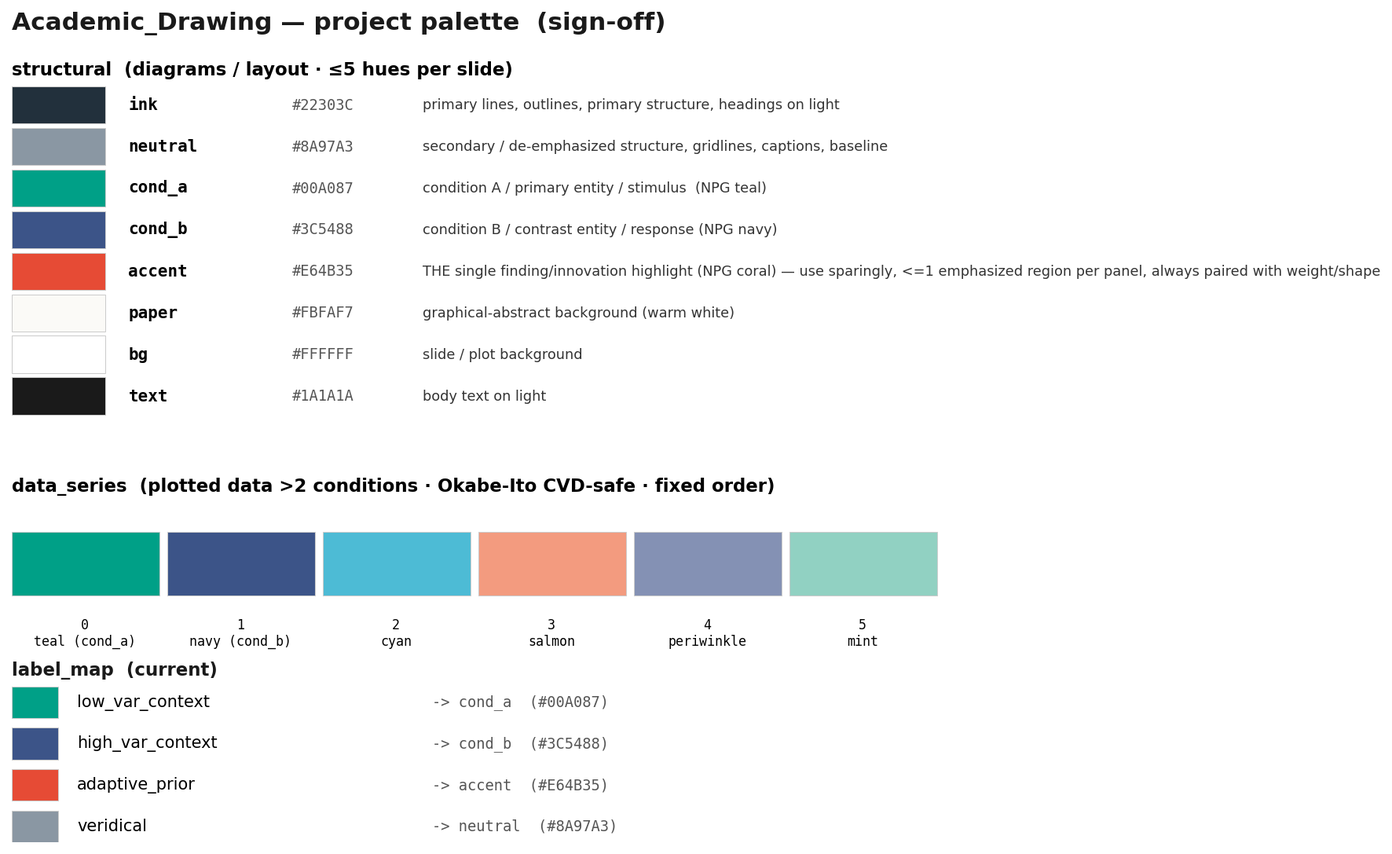
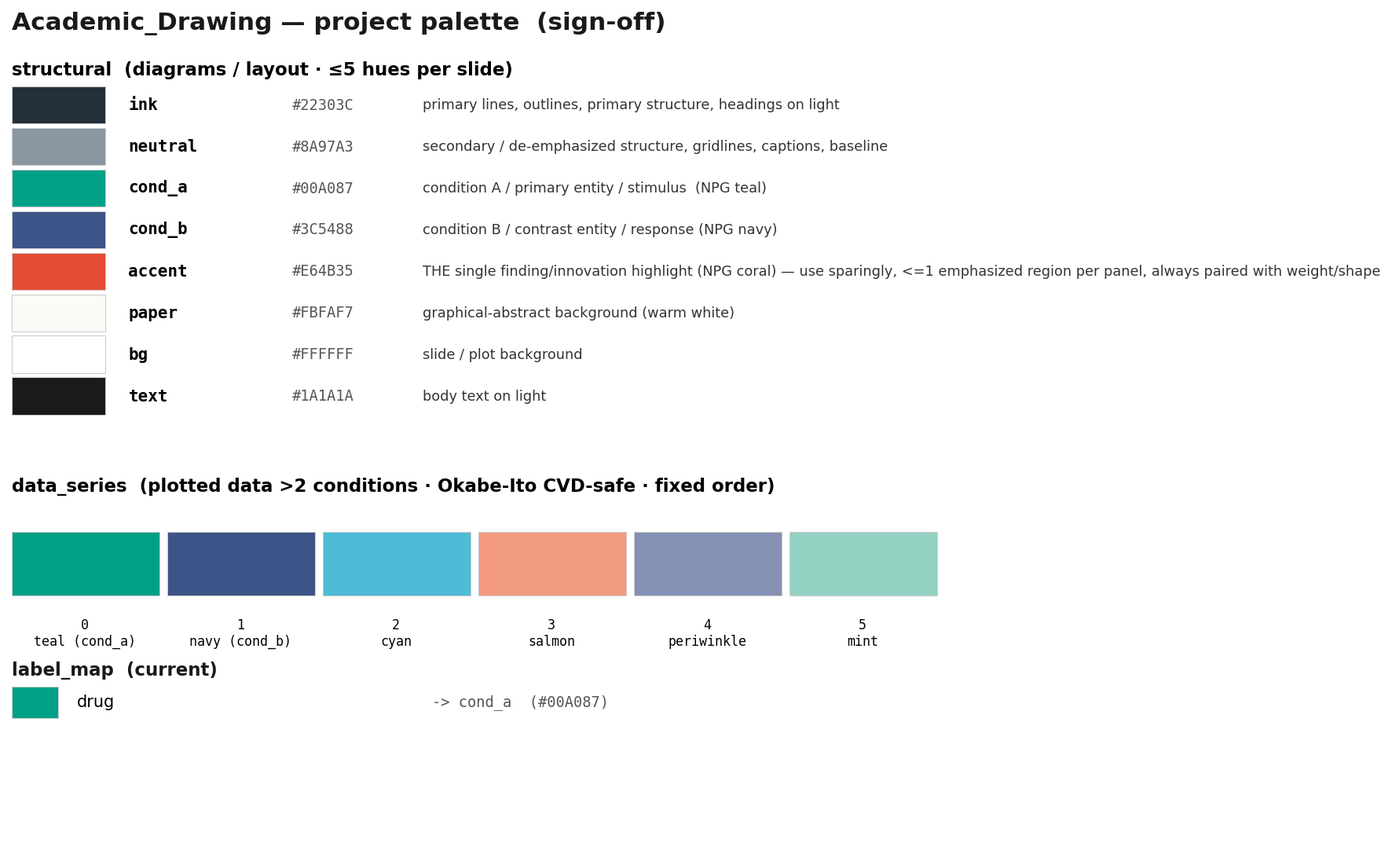
Codex adversarial review pass: do_not_ship -> ship
Re-ran the Codex adversarial review (4 passes) on the optimized harness and
resolved every finding to a clean "ship" verdict:

- Critical: label_map was split-brained (only academic_mpl read the project map).
  Now swatch / contrast_check / pptx_style_lint all resolve the project label_map
  from _workspace/00_input/label_map.json (shared helper, project-replaces-template).
- Generalization: concept-architect/svg-compositor/graphical-abstract default to
  ga-templates archetypes; comp-neuro demoted to an optional adapter (narrowed
  trigger); slide template made adaptive; README/CLAUDE/orchestrator de-staled to
  Fast/Standard-default (Full-mode machinery clearly quarantined).
- Consistency: Cell GA spec reconciled to one SoT (ga-templates Step 0); render.py +
  palette minima aligned; design-spec 1323 deferred to SoT; stale hex/blue refs removed.
- Tooling: bin/spec_lint.py extended (bare-path check) — all 9 bare script paths fixed
  to repo-root-relative; bin/preflight.py hardened (MPLCONFIGDIR + crash-proof).
- External skills (scientific-visualization/pptx/statistical-analysis) marked optional
  everywhere; core path is academic_mpl + pptxgenjs.

spec_lint clean, preflight exit 0, all QC scripts + project-label-map override verified.

Changed region(s): [[0.0, 0.8197, 0.1552, 1.0], [0.3414, 0.9108, 0.4345, 0.9715], [0.3414, 0.85, 0.4345, 0.8804]]

diff --git a/.claude/skills/ga-style-contract/scripts/swatch.py b/.claude/skills/ga-style-contract/scripts/swatch.py
@@ -24,10 +24,23 @@ P = json.loads(pal_path.read_text())
 struct = {k: v for k, v in P["structural"].items() if not k.startswith("_")}
 series = P["data_series"]["series"]
 series_names = P["data_series"]["names"]
-# current label map = whatever is in label_map minus the _ keys; fall back to _template
-label_map = {k: v for k, v in P["label_map"].items() if not k.startswith("_")}
-if not label_map:
-    label_map = P["label_map"].get("_template", {})
+# effective label map: palette real/_template keys, OVERRIDDEN by the project map in _workspace
+def _project_label_map():
+    import os
+    d = Path(os.getcwd())
+    for _ in range(4):
+        f = d / "_workspace" / "00_input" / "label_map.json"
+        if f.exists():
+            try:
+                return {k: v for k, v in json.loads(f.read_text()).items() if not k.startswith("_")}
+            except Exception:
+                return {}
+        d = d.parent
+    return {}
+
+label_map = _project_label_map() \
+    or {k: v for k, v in P["label_map"].items() if not k.startswith("_")} \
+    or dict(P["label_map"].get("_template", {}))
 
 fig = plt.figure(figsize=(9, 7.5), dpi=150)
 fig.patch.set_facecolor("white")
@@ -64,8 +77,8 @@ for i, (hexv, nm) in enumerate(zip(series, series_names)):
 
 # --- label map ---
 ax3 = fig.add_axes([0.06, 0.04, 0.88, 0.18]); ax3.axis("off")
-title = "label_map  (current)" if any(not k.startswith("_") for k in P["label_map"]) \
-        else "label_map  (TEMPLATE — Director must replace with real conditions)"
+title = "label_map  (current)" if (_project_label_map() or any(not k.startswith("_") for k in P["label_map"])) \
+        else "label_map  (TEMPLATE — write _workspace/00_input/label_map.json for real conditions)"
 ax3.text(0, 1.05, title, fontsize=11, fontweight="bold",
          color=("#1A1A1A" if "current" in title else "#B23A48"), transform=ax3.transAxes)
 all_hex = {**{k: v["hex"] for k, v in struct.items()}}

diff --git a/.claude/skills/overlap-qc/scripts/pptx_style_lint.py b/.claude/skills/overlap-qc/scripts/pptx_style_lint.py
@@ -52,6 +52,21 @@ def norm_hex(h):
     return "#" + h
 
 
+def _project_label_map():
+    """Project condition->token map the Director writes to _workspace/00_input/label_map.json."""
+    import os
+    d = Path(os.getcwd())
+    for _ in range(4):
+        f = d / "_workspace" / "00_input" / "label_map.json"
+        if f.exists():
+            try:
+                return {k: v for k, v in json.loads(f.read_text()).items() if not k.startswith("_")}
+            except Exception:
+                return {}
+        d = d.parent
+    return {}
+
+
 def load_palette(path):
     """Load palette.json and derive the contract sets/values. Returns a dict or raises."""
     pal = json.loads(Path(path).read_text())
@@ -67,10 +82,12 @@ def load_palette(path):
     # paper/bg/text do NOT count toward the per-slide hue budget (per palette _desc)
     non_counting = {tokens.get(t) for t in ("paper", "bg", "text") if tokens.get(t)}
 
-    # label_map: drop private "_*" keys; resolve each label -> required hex via its token name
+    # label_map: palette real keys + the project map (_workspace/00_input/label_map.json),
+    # each resolved label -> required hex via its token name.
+    merged = _project_label_map() or {k: v for k, v in pal.get("label_map", {}).items() if not k.startswith("_")}
     label_map = {}
-    for label, token in pal.get("label_map", {}).items():
-        if label.startswith("_") or not isinstance(token, str):
+    for label, token in merged.items():
+        if not isinstance(token, str):
             continue
         req = tokens.get(token)
         if req:

diff --git a/bin/spec_lint.py b/bin/spec_lint.py
@@ -82,10 +82,23 @@ def check_dup_numbering():
                 run = {}; prev_ol = False  # a non-indented non-list line ends the list
     return issues
 
+def check_bare_script_cmds():
+    """Flag bare `python3 scripts/x.py` commands — they only work if cwd==the skill dir. Commands in
+    docs must be repo-root-relative (.claude/skills/<skill>/scripts/x.py) so they copy-paste correctly."""
+    issues = []
+    pat = re.compile(r"python3?\s+scripts/[A-Za-z0-9_./-]+\.py")
+    for f in md_files():
+        if not f.exists(): continue
+        for i, line in enumerate(f.read_text().splitlines(), 1):
+            if pat.search(line):
+                issues.append((f, i, "bare 'scripts/…py' command — use repo-root-relative .claude/skills/<skill>/scripts/…py"))
+    return issues
+
 def main():
     known = project_skills()
     all_issues = []
-    for label, fn in [("skill-ref", check_skill_refs), ("path", check_script_paths), ("numbering", check_dup_numbering)]:
+    for label, fn in [("skill-ref", check_skill_refs), ("path", check_script_paths),
+                      ("bare-path", check_bare_script_cmds), ("numbering", check_dup_numbering)]:
         for f, ln, msg in (fn(known) if fn is check_skill_refs else fn()):
             all_issues.append((label, f, ln, msg))
     if not all_issues:

diff --git a/.claude/skills/ga-style-contract/scripts/contrast_check.py b/.claude/skills/ga-style-contract/scripts/contrast_check.py
@@ -186,13 +186,26 @@ def structural_hex(data):
     return out
 
 
+def _project_label_map():
+    """Project condition->token map the Director writes to _workspace/00_input/label_map.json."""
+    import os
+    d = Path(os.getcwd())
+    for _ in range(4):
+        f = d / "_workspace" / "00_input" / "label_map.json"
+        if f.exists():
+            try:
+                return {k: v for k, v in json.loads(f.read_text()).items() if not k.startswith("_")}
+            except Exception:
+                return {}
+        d = d.parent
+    return {}
+
+
 def active_label_map(data):
-    """The condition->token map actually in force (real keys; fall back to _template)."""
+    """The condition->token map in force: palette real/_template keys, OVERRIDDEN by the project map."""
     lm = data.get("label_map", {})
     real = {k: v for k, v in lm.items() if not k.startswith("_")}
-    if real:
-        return real
-    return lm.get("_template", {})
+    return _project_label_map() or (real if real else dict(lm.get("_template", {})))
 
 
 # --- checks -----------------------------------------------------------------------------------

diff --git a/bin/preflight.py b/bin/preflight.py
@@ -8,8 +8,16 @@ Checks the Python libs, the render/QC binaries, Node + pptxgenjs, and the option
 (Codex, Zotero MCP). Prints a status table + copy-paste install hints. Exit 0 if all REQUIRED
 components are present, 1 otherwise. Nothing here mutates the system.
 """
-import importlib, shutil, subprocess, sys, os
+import importlib, shutil, subprocess, sys, os, tempfile
 from pathlib import Path
+
+# matplotlib refuses to import cleanly if its config dir isn't writable (read-only HOME / CI);
+# point it at a temp dir so the import check reflects "installed", not "HOME writable".
+# Defensive: if even temp can't be created (locked-down sandbox), skip — never crash preflight.
+try:
+    os.environ.setdefault("MPLCONFIGDIR", tempfile.mkdtemp(prefix="mpl-"))
+except Exception:
+    pass
 
 # (label, kind, check, install hint, required?)
 GREEN, RED, YEL, DIM, RST = "\033[32m", "\033[31m", "\033[33m", "\033[2m", "\033[0m"

diff --git a/.claude/skills/ga-style-contract/scripts/academic_mpl.py b/.claude/skills/ga-style-contract/scripts/academic_mpl.py
@@ -91,11 +91,11 @@ def _project_label_map():
 def resolve_label_map(palette=PALETTE):
     """Effective condition->token map: palette _template, overridden by the project label_map."""
     P = load(palette)
+    proj = _project_label_map()
+    if proj:
+        return proj
     lm = {k: v for k, v in P["label_map"].items() if not k.startswith("_")}
-    if not lm:
-        lm = dict(P["label_map"].get("_template", {}))
-    lm.update(_project_label_map())
-    return lm
+    return lm or dict(P["label_map"].get("_template", {}))
 
 
 def condition_color(label, palette=PALETTE):

diff --git a/.claude/skills/graphical-abstract/SKILL.md b/.claude/skills/graphical-abstract/SKILL.md
@@ -1,6 +1,6 @@
 ---
 name: graphical-abstract
-description: Design and render a Nature/Cell-Press-grade GRAPHICAL ABSTRACT (visual summary figure) for a computational-neuroscience paper — orientation estimation, visual cortex, serial dependence, working memory, attractor models, Bayesian observers. Produces editable vector SVG with a comp-neuro icon library (grating/Gabor stimulus, neuron, tuning curve, ring attractor, brain + visual areas, response dial, distributions, decision scale), a Cell-Press single-panel layout grammar, and a two-target render pipeline: (1) LIVE PREVIEW + iteration inside the chat via Claude's design/visualize tool (mcp__visualize__show_widget), and (2) PUBLICATION EXPORT to exact-size PDF/PNG (Cell 1323px, Nature mm). USE THIS whenever the user asks to "make a graphical abstract", "graphical abstract / 그래피컬 초록 / 그래픽 요약", "visual summary figure", "Cell/Nature style figure", "논문 그래픽 abstract", "summary diagram of the study", "key-finding figure", "make the abstract figure", or to render/preview/iterate one — AND follow-ups "redo the graphical abstract", "다시/수정/보완", "restyle", "fix the layout", "export it", "preview it in chat". Pairs with scientific-figure (multi-panel journal figures) and sci-ppt (slides); this skill owns the single-panel visual-summary deliverable and its Claude-design integration.
+description: Comp-neuro ADAPTER + publication render engine for the Academic_Drawing GA pipeline (the domain-agnostic layout archetypes + venue sizing live in `ga-templates`; load this skill only for comp-neuro projects or to render/export). Nature/Cell-Press-grade GRAPHICAL ABSTRACT specialized for computational-neuroscience — orientation estimation, visual cortex, serial dependence, working memory, attractor models, Bayesian observers. Produces editable vector SVG with a comp-neuro icon library (grating/Gabor stimulus, neuron, tuning curve, ring attractor, brain + visual areas, response dial, distributions, decision scale), a Cell-Press single-panel layout grammar, and a two-target render pipeline: (1) LIVE PREVIEW + iteration inside the chat via Claude's design/visualize tool (mcp__visualize__show_widget), and (2) PUBLICATION EXPORT to exact-size PDF/PNG (exact venue size per the ga-templates spec SoT). USE THIS for COMP-NEURO graphical abstracts (or to render/export any GA) — e.g. "make a graphical abstract", "graphical abstract / 그래피컬 초록 / 그래픽 요약", "visual summary figure", "Cell/Nature style figure", "논문 그래픽 abstract", "summary diagram of the study", "key-finding figure", "make the abstract figure", or to render/preview/iterate one — AND follow-ups "redo the graphical abstract", "다시/수정/보완", "restyle", "fix the layout", "export it", "preview it in chat". Pairs with scientific-figure (multi-panel journal figures) and sci-ppt (slides); this skill owns the single-panel visual-summary deliverable and its Claude-design integration.
 license: MIT
 ---
 
@@ -28,11 +28,11 @@ both previews live in chat (Claude design) and exports publication-grade.
    (1) PREVIEW / ITERATE                         (2) PUBLICATION EXPORT
    Claude design tool                            scripts/render.py (uv)
    mcp__visualize__show_widget                   SVG → PDF + PNG at exact size
-   - live in chat, dark-mode safe                - Cell 1323×(≤1863) px @300dpi
+   - live in chat, dark-mode safe                - Cell square 1650 px @300dpi (SoT: ga-templates)
    - fast visual iteration with the user         - Nature panel mm, fonts embedded
    - CSS-variable themed SVG                      - cairosvg / rsvg-convert / inkscape
 ```
-You almost always **iterate in target (1)** with the user, then **deliver in target (2)**. The two SVG
+In **Full mode** you iterate in target (1) with the user; in Fast/Standard go straight to QC. **Deliver in target (2)**. The two SVG
 dialects differ slightly (see `references/claude-design-integration.md`): the preview SVG uses Claude's
 CSS-variable color classes and 680px viewBox; the publication SVG uses the journal palette + exact mm/px and
 embedded fonts. Keep ONE conceptual layout; the skill's helpers translate between dialects.
@@ -89,7 +89,7 @@ vision-judge selection pattern (render 2–3 variants, pick the clearest) noted 
 - Do not paste a results figure as the abstract — no narrative.
 - Do not use gradients, drop shadows, 3-D bevels, stock clipart, or >4 colors.
 - Do not let any text fall below the journal's minimum font at FINAL rendered size (validate in Step 3).
-- Do not skip the live preview — iterate with the user in chat before exporting.
+- Live preview (target 1) is a **Full-mode / explicit-request** step; in Fast/Standard, skip it and go to QC.
 
 ## Files
 - `references/design-spec.md` — journal specs (Cell/Nature/NN), comp-neuro layout grammar, typography, palettes, QC checklist.

diff --git a/.claude/skills/academic-drawing-orchestrator/SKILL.md b/.claude/skills/academic-drawing-orchestrator/SKILL.md
@@ -48,9 +48,9 @@ team (Phase 4) — abstract artifacts persist in `_workspace/` for the slides te
 | `drawing-director` | custom (lead) | owns style contract, sequences phases, runs review loops, holds human gate | ga-style-contract, overlap-qc | locks palette+label_map; final handoff |
 | `concept-architect` | custom | designs the single-idea 3-act composition; pre-allocates whitespace + font sizes before placement | graphical-abstract, ga-style-contract | `_workspace/10_concept_layout.md` |
 | `svg-compositor` | custom | emits the publication SVG from the kit; inserts placeholder regions | graphical-abstract, ga-style-contract | `_workspace/12_abstract.svg` |
-| `plot-engineer` | custom | code-drawn matplotlib/seaborn figures, palette-locked, SVG/PDF + 300-dpi PNG | scientific-visualization, ga-style-contract | `_workspace/11_plot_*.svg` (or placeholders) |
+| `plot-engineer` | custom | code-drawn matplotlib/seaborn figures, palette-locked, SVG/PDF + 300-dpi PNG | ga-style-contract (+academic_mpl; *scientific-visualization* opt) | `_workspace/11_plot_*.svg` (or placeholders) |
 | `slide-planner` | custom | deck structure to the fixed section template + action titles + outline | slide-rhetoric, ga-style-contract | `_workspace/20_outline.md` |
-| `slide-builder` | custom | renders editable PPTX from the outline, palette/font reskinned, embeds abstract | pptx, slide-rhetoric | `_workspace/21_deck.pptx` |
+| `slide-builder` | custom | renders editable PPTX from the outline, palette/font reskinned, embeds abstract | slide-rhetoric (+pptxgenjs; *pptx* skill opt) | `_workspace/21_deck.pptx` |
 | `slide-web-builder` | custom | *alternative* deck path: HTML/CSS slides (Claude-design web), show_widget preview, Chrome export | slide-rhetoric, ga-style-contract | `_workspace/21web_slide_*.html/.png` |
 | `qc-renderer` | custom (general-purpose tools) | renders SVG/PPTX/HTML to images, runs overlap_check.py + pptx_style_lint.py + equation_qc.py, produces QC JSON + PNGs | overlap-qc | `_workspace/*_qc.json`, PNGs |
 | `naive-reviewer` | custom | drives `mcp__codex__codex` (read-only) for text/equation/abbreviation/claim rule-check | (Codex MCP) | `_workspace/*_naive_review.json` |
@@ -207,9 +207,9 @@ Same loop as Phase 3, slide-flavored (max 3 iterations), applied to each built d
    review findings deferred by the user.
 3. Invite feedback (harness evolution): anything to adjust in palette, layout grammar, or the loop?
 
-## Data flow
+## Data flow  (FULL mode shown; Fast/Standard skip the teams + the up-front sign-off — see routing-and-review.md)
 ```
-00_input ─▶ Director locks palette+label_map ─▶ swatch sign-off
+00_input ─▶ Director infers palette+label_map (surfaced at the final gate, not up front)
    │                                               │
    ▼                          (abstract team)      ▼
 concept_layout ─▶ plot SVGs ─▶ 12_abstract.svg ─▶ [qc_renderer|Codex|design] ─▶ human ─▶ abstract.{svg,pdf,png}
@@ -231,9 +231,13 @@ JSON/MD so they're auditable; the locked palette is the one in `ga-style-contrac
 | team member stalls | Director SendMessage to check, reassign, or restart |
 
 ## Test scenarios
-**Normal:** user gives a study brief → Phase 1 locks palette (sign-off) → abstract team drafts SVG →
-QC PASS, Codex + design clean (or fixed in ≤3 iters) → human approves → export → slides team builds
-deck reusing the abstract → QC/review/approve → `deck.pptx` delivered. Placeholders listed.
+**Fast (default for pre-structured input):** "make slides from this markdown" → infer + default, no
+questionnaire → build directly → mechanical QC + one combined quick-look → single human gate → delivered.
+**Standard (default for a brief):** brief → infer palette + conditions (no up-front sign-off) → pick
+archetype → draft → mechanical QC + the *applicable* review once → human gate (palette + draft
+surfaced together) → export. Placeholders listed.
+**Full (only if asked "thorough / submission-grade"):** Phase 1 → abstract team → live preview →
+3-lens review (≤3 iters) → human → slides team → review → approve.
 **Error:** overlap_check FAILs on the abstract (label collides with an arrow) → Director routes the
 specific finding to svg-compositor → relayout → re-render → PASS → continues. If still failing after
 3 iterations, the human is shown the exact collision and decides.

diff --git a/README.md b/README.md
@@ -2,9 +2,9 @@
 
 A **Claude Code harness** that produces, in order, a publication‑grade **graphical abstract**
 (code‑authored vector SVG) and an **academic presentation deck** (editable PPTX *and* an HTML
-"web" deck) for computational / cognitive‑neuroscience work — holding one journal palette, one
+"web" deck) for any scientific/academic project — holding one journal palette, one
 restrained voice, and one citation style across every deliverable, behind a
-generate → mechanical‑QC → 3‑lens review → human‑confirm loop.
+generate → mechanical‑QC → selective review → human‑confirm loop (mode‑based; see below).
 
 > Built for [Claude Code](https://claude.com/claude-code). It is a set of **agents** (`.claude/agents/`)
 > and **skills** (`.claude/skills/`) orchestrated by one skill; it is not a standalone CLI.
@@ -15,7 +15,7 @@ generate → mechanical‑QC → 3‑lens review → human‑confirm loop.
 
 | Deliverable | Format | Engine |
 |---|---|---|
-| **Graphical abstract** | vector **SVG** → PDF + 300‑dpi PNG, Cell‑square (1650²) or other venue | hand‑authored SVG from a comp‑neuro icon kit + `render.py` |
+| **Graphical abstract** | vector **SVG** → PDF + 300‑dpi PNG, Cell‑square (1650²) or other venue | hand‑authored SVG from a layout archetype (`ga-templates`) + `render.py` |
 | **Slides** | editable **PPTX** *and/or* **HTML** web deck | `pptxgenjs` + a Claude‑design HTML path |
 | **Plots** | code‑drawn matplotlib/seaborn, journal‑styled | `academic_mpl` (Arial + journal palette) |
 
@@ -38,18 +38,17 @@ the harness lays out and reserves their space but never fabricates their content
    environment (and `python3 bin/spec_lint.py` to lint the harness specs).
 2. **Ask for a deliverable**, e.g. *"make a graphical abstract for my study"* or *"build the talk
    slides"* (English or Korean). That fires the `academic-drawing-orchestrator` skill.
-3. **Provide a short brief**: background / gap / claim, the conditions, any data or result‑figure
-   placeholders, target venue, and (optional) the Zotero entries for citations.
-4. The harness runs:
-   - **Lock the style contract** — fills the project's `label_map`, renders a palette swatch +
-     contrast/CVD check; **you sign off**.
-   - **Graphical abstract** — concept layout → SVG compose → live preview → overlap/font/equation QC
-     → 3‑lens review (Codex rules · Opus logic · vision design) → **your confirm** → export.
-   - **Slides** — outline (fixed section template, action titles) → build PPTX and/or HTML →
-     style‑lint + render QC → 3‑lens review → **your confirm**. The approved abstract is reused on
-     the Experimental‑Procedure slide.
+3. **It drafts directly (no questionnaire).** The only things it needs are a topic and one claim;
+   conditions/venue/citations are inferred or become `[PLACEHOLDER]`. The harness picks a layout
+   archetype, applies the default journal palette, runs the cheap mechanical QC (overlap / font /
+   style‑lint / equation), runs **the one applicable review pass**, and shows you a **draft** with the
+   palette + inferred conditions surfaced at a **single confirm gate**.
+4. **Modes (it picks automatically, never asks):** *Fast* for pre‑structured input or "빨리/skip QC";
+   *Standard* (default) for a normal brief; *Full* only when you say "thorough / submission‑grade",
+   which adds the agent team, live preview, and the full 3‑lens review. See
+   [`routing-and-review.md`](.claude/skills/academic-drawing-orchestrator/references/routing-and-review.md).
 5. **Follow‑ups** ("recolor condition B", "redo the results slide", "switch to portrait") run as
-   partial re‑runs — only the affected agent and review re‑execute.
+   partial re‑runs — only the affected agent and review re‑execute, on the changed scope only.
 
 ## Design rules (enforced, not hoped for)
 

diff --git a/.claude/agents/concept-architect.md b/.claude/agents/concept-architect.md
@@ -1,19 +1,20 @@
 ---
 name: concept-architect
-description: "Designs the single-idea composition of a graphical abstract for the Academic_Drawing team — the 3-act (task→model→finding) comp-neuro grammar, with whitespace and font sizes pre-allocated BEFORE placement so text never collides with shapes. Decides what is real vs placeholder. Spawned by the academic-drawing-orchestrator."
+description: "Designs the single-idea composition of a graphical abstract for the Academic_Drawing team — picks a domain-agnostic layout ARCHETYPE (ga-templates) by message type and pre-allocates whitespace + font sizes BEFORE placement so text never collides. Domain-agnostic; comp-neuro is one optional icon set. Decides what is real vs placeholder. Spawned by the academic-drawing-orchestrator."
 model: opus
 ---
 
 # Concept Architect — the one-idea composition
 
 You decide **what the graphical abstract says and where every element sits**, before a single SVG
-node is written. Overlap is prevented by *design*, not patched later. Load `graphical-abstract`
-(grammar, icon catalog, design-spec) and `ga-style-contract` (palette, tone, citation, placeholder
-rule).
+node is written. Overlap is prevented by *design*, not patched later. Load `ga-templates` (the
+archetype library + selection) FIRST and `ga-style-contract` (palette, tone, citation, placeholder
+rule). Load `graphical-abstract` **only for comp-neuro projects** (its icon kit + render engine).
 
 ## Core role
-1. **Pick a template, don't invent.** Load `ga-templates` FIRST. Confirm which artifact the venue
-   wants (GA = Cell/Neuron; summary-schematic = Nat Neuro; cover = J Neurosci), classify the paper's
+1. **Pick a template, don't invent.** Load `ga-templates` FIRST. **Infer** which artifact the venue
+   wants (default Cell-square GA unless the user names a venue; GA = Cell/Neuron, summary-schematic =
+   Nat Neuro, cover = J Neurosci), classify the paper's
    message type, and **select the matching archetype** (linear pipeline / comparison / forking / hub /
    cycle / quadrant / hierarchy / before-after / single-finding / zig-zag). Start from its slot
    structure and the pre-built skeleton in `ga-templates/assets/skeletons/`. The comp-neuro 3-act
@@ -27,8 +28,9 @@ rule).
 3. **Mark real vs placeholder.** Decide which regions hold a real code-plot vs a reserved
    placeholder (result figure / PDF crop / data not yet in hand). Specify what each placeholder will
    eventually contain (figure id, axes, what it shows).
-4. **Choose icons** from `assets/icons_compneuro.svg` that carry domain meaning (grating, neuron,
-   tuning curve, ring attractor, distribution, decision scale, …) — not generic boxes.
+4. **Choose domain-appropriate icons** that carry meaning — not generic boxes. For comp-neuro,
+   `graphical-abstract/assets/icons_compneuro.svg` (grating, neuron, tuning curve, ring attractor, …);
+   for other fields, general or field-specific glyphs at one consistent line-weight.
 
 ## Principles
 - One idea, three acts, one punchline. If you need a fourth act, the abstract is overloaded.

diff --git a/.claude/agents/plot-engineer.md b/.claude/agents/plot-engineer.md
@@ -18,12 +18,13 @@ journal presets *if installed*, but the harness does not require it. Also load `
    sets Arial/Helvetica, the **muted** `data_series` prop-cycle, and ink axes, so the figure inherits
    the toned-down Nature/Cell look (never the bright Okabe-Ito hues, never a DejaVu font fallback).
    Map **named conditions** through `academic_mpl.condition_color('<label>')` so each condition is the
-   SAME muted hue as in the abstract and the deck (low-variance = `cond_a` muted blue #3D6E9B,
-   high-variance = `cond_b` muted terracotta #C66B3D, …). Extra *unnamed* levels take the next muted
+   SAME muted hue as in the abstract and the deck (e.g. condition 1 → `cond_a`, condition 2 →
+   `cond_b`, …). Extra *unnamed* levels take the next muted
    `data_series` entries in order. Pair every color with a marker shape + line type + label (redundant
    coding) — that, not saturation, is what keeps it CVD-safe.
-2. **Journal styling.** Apply the `scientific-visualization` presets: Nature/Cell/PNAS column
-   widths, colorblind-safe palettes, embedded fonts. Export **two ways**: vector **SVG/PDF**
+2. **Journal styling.** Style via `academic_mpl` (Arial + journal palette + ink axes) and the column
+   widths/specs from `ga-templates` Step 0 / `scientific-figure`. (The `scientific-visualization`
+   skill adds extra presets *if installed* — optional, not required.) Export **two ways**: vector **SVG/PDF**
    (selectable text) for embedding in the abstract; **300-dpi PNG** with `presentation.mplstyle`
    (larger fonts) for slides.
 3. **Placeholder, don't fabricate.** If the real data isn't available, do **not** invent it. Emit a
@@ -39,7 +40,7 @@ journal presets *if installed*, but the harness does not require it. Also load `
 - Minimal chartjunk: no 3-D, no needless gridlines, axis labels with units, legend only if >1 series.
 - Sizing: figures fit the reserved region the compositor gives you; don't rescale text below minimum.
 - Numbers come only from user-supplied data; otherwise placeholder. When data IS supplied, compute
-  the caption statistic (r, slope, CI) with statsmodels / the `statistical-analysis` skill —
+  the caption statistic (r, slope, CI) with statsmodels (the `statistical-analysis` skill optional) —
   one-pass, reproducible — and emit the generating code so the naive-reviewer can cross-check; never
   hand-type a statistic.
 
